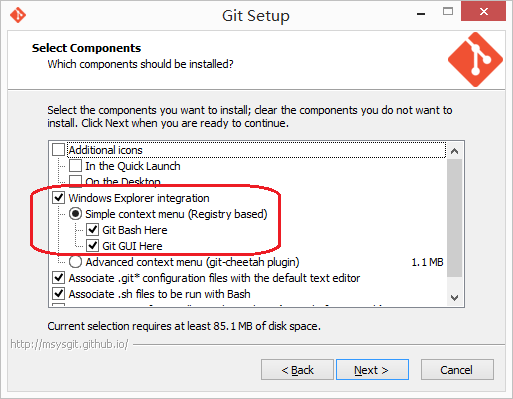
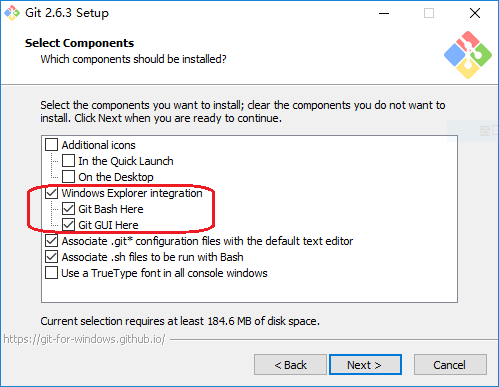
文档更新

Changed region(s): [[0.0, 0.0, 1.0, 1.0], [0.4208, 0.0, 0.5711, 0.062]]

diff --git a/README.md b/README.md
@@ -1,171 +1,256 @@
-# BC系统开发环境配置
+# BC 系统开发环境配置
 
 
-## 一）安装JDK
+## 一）安装 JDK
 
-- 下载绿色版的 JDK７<br>
+- 下载绿色版的 JDK8<br>
 用 ftp 工具连接到 192.168.0.222（账号reader、密码reader），
-文件路径为 /file/tools/java/jdk/jdk1.7.0_21_64.rar<br>
+文件路径为 /file/tools/java/jdk/green/jdk1.8.0_60_x64.rar  
 注：也可以到官网下载安装。
-- 将 jdk1.7.0_21_64.rar 解压到 D:\GreenSoft\java，确认解压后的目录结构如下：
+- 将 jdk1.8.0_60_x64.rar 解压到 /your/path/to/jdk，确认解压后的目录结构如下：
 ```
-D:\GreenSoft\java\jdk1.7.0_21_64\bin
-                                \jre
-                                \lib
-                                \...
+/your/path/to/jdk/jdk1.8.0_60_x64/bin
+                                /jre
+                                /lib
+                                /...
 ```
 - 配置环境变量
 ```
-JAVA_HOME = D:\GreenSoft\java\jdk1.7.0_21_64
-PATH 添加 %JAVA_HOME%\bin
+JAVA_HOME = /your/path/to/jdk/jdk1.8.0_60_x64
+PATH 添加 %JAVA_HOME%/bin (Windows)、$JAVA_HOME/bin (Linux、Mac OS)
 ```
 - 验证安装是否正确
 ```
-> java -version
+$ java -version
 ```
 
 ## 二）安装 Maven
 
-- 到 [Maven 官网](http://maven.apache.org/) 下载最新版的 maven 二进制包，如 [apache-maven-3.2.1-bin.tar.gz](http://mirrors.cnnic.cn/apache/maven/maven-3/3.2.1/binaries/apache-maven-3.2.1-bin.tar.gz)。
+- 到 [Maven 官网](http://maven.apache.org/) 下载最新版的 maven 二进制包，如 [apache-maven-3.3.9-bin.tar.gz](http://apache.fayea.com/maven/maven-3/3.3.9/binaries/apache-maven-3.3.9-bin.tar.gz)。
 
-- 将 apache-maven-3.2.1-bin.tar.gz 解压到 D:\GreenSoft，确认解压后的目录结构为如下：
+- 将 apache-maven-3.3.9-bin.tar.gz 解压到 /your/path/to/maven，确认解压后的目录结构为如下：
 ```
-D:\GreenSoft\apache-maven-3.2.1\bin
-                               \boot
-                               \conf
-                               \lib
-                               \...
+/your/path/to/maven/apache-maven-3.3.9/bin
+                                      /boot
+                                      /conf
+                                      /lib
+                                      /...
 ```
 
 - 配置环境变量
 ```
-M2_HOME = D:\GreenSoft\apache-maven-3.2.1
-PATH 添加 %M2_HOME%\bin
+M2_HOME = /your/path/to/maven/apache-maven-3.3.9
+PATH 添加 %M2_HOME%/bin (Windows)、$M2_HOME/bin (Linux、Mac OS)
 ```
 
-- 增加 Maven 用户配置文件<br>
-在用户目录下创建 .m2 目录：
+- 增加 Maven 用户配置文件  
+在用户目录下创建 .m2 目录：(Windows)
 ```
 > C:
 > cd %USERPROFILE%
 > md .m2
 ```
-拷贝这里的 [settings.xml](https://raw.githubusercontent.com/bcsoft/bc-start/master/settings.xml) 文件到 .m2 目录下。
+拷贝这里的 [settings.xml](https://bitbucket.org/bctaxi/bc-start/src/2b4bd5af9e0b?at=master) 文件到 .m2 目录下。并将文件内的 localRepository 节点的值修改为有效的路径。
 
 - 验证安装是否正确
 ```
 > mvn -v
 ```
 
-- 参考资料<br>
-[Maven开发环境配置](http://rongjih.blog.163.com/blog/static/33574461201041615854740/)<br>
-[官方参考文档](http://maven.apache.org/guides/index.html)<br>
-[Maven权威指南](http://books.sonatype.com/mvnref-book/reference/index.html)<br>
+- 参考资料  
+[Maven开发环境配置](http://rongjih.blog.163.com/blog/static/33574461201041615854740/)  
+[官方参考文档](http://maven.apache.org/guides/index.html)  
+[Maven权威指南](http://books.sonatype.com/mvnref-book/reference/index.html)  
 《Maven权威指南中文版》可到 192.168.0.222 /file/book/Maven权威指南(中文带目录导航).pdf 下载。
 
 ## 三）安装 Git 
-- [官网下载](http://msysgit.github.io/) 或 `192.168.0.222 /file/tools/git/Git-1.9.2-preview20140411.exe` 下载安装。<br>
+- [官网下载](http://git-scm.com/downloads) 或 `192.168.0.222 /file/tools/git/Git-2.6.3-64-bit.exe` 下载安装。  
 注：安装到 "Select Components" 界面时，注意要选择如下安装选项:
-  - [x] Windows Explorerintegration
-    - [x] Simple context menu (Registry based)
-      - [x] Git Bash Here
-      - [x] Git GUI Here<br>
+  - [x] Windows Explorer integration
+    - [x] Git Bash Here
+    - [x] Git GUI Here  
 
 ![Git 安装](/asset/git_install.png)
 
-- 验证安装是否正确<br>
-在资源管理器空白的地方点击鼠标右键，能够看到 Git Bash Here 和 Git GUI Here 两个菜单项就证明安装OK，点击 Git Bash Here 菜单项就可进入 Git 命令行，如下图所示：<br>
-![Git 右键菜单](/asset/git_right_click.png)<br>
+- 验证安装是否正确  
+在资源管理器空白的地方点击鼠标右键，能够看到 Git Bash Here 和 Git GUI Here 两个菜单项就证明安装OK，点击 Git Bash Here 菜单项就可进入 Git 命令行，如下图所示：  
+![Git 右键菜单](/asset/git_right_click.png)  
 ![Git 命令行](/asset/git_command.png)
 
-- 参考资料<br>
-[首先基于互联网的Git开发环境搭建(Windows系统)](http://rongjih.blog.163.com/blog/static/33574461201101504819691/)<br>
+- 参考资料  
+[首先基于互联网的Git开发环境搭建(Windows系统)](http://rongjih.blog.163.com/blog/static/33574461201101504819691/)  
 [Git常用操作命令](http://rongjih.blog.163.com/blog/static/335744612010112562833316/)
 
 ## 四）配置 ssh key
-如果已经有相应的密钥对，可以直接将私钥放到 "%USERPROFILE%/.ssh/" 目录下即可。将公钥发送给管理员，让管理员配置你有权限使用此密钥对检出内网的相关 git 仓库。如果还没有密钥对就按如下步骤创建：
-- 打开Git 的命令行窗口，输入`$ ssh-keygen -C "your@email.com" -t rsa`，按提示输入相关信息生成rsa key（注意email地址按你的实际输入）；默认就会在用户目录下创建名为“.ssh”的目录，并在该目录下生成两个文件，`id_rsa.pub` 和 `id_rsa`，一个是公钥(.pub)另一个是私钥。
+如果已经有相应的密钥对，可以直接将私钥放到 "%USERPROFILE%/.ssh/" 目录下即可。如果还没有密钥对就按如下步骤创建：
+
+- 打开 Git 的命令行窗口，输入`$ ssh-keygen -C "your@email.com" -t rsa`，按提示输入相关信息生成 rsa key（注意email地址按你的实际输入）；默认就会在用户目录下创建名为“.ssh”的目录，并在该目录下生成两个文件：`id_rsa.pub (公钥)` 和 `id_rsa (私钥)`。
+
 - 如果想修改上面创建的密钥的密码，执行命令 `$ ssh-keygen -f '/c/Documents and Settings/yourName/.ssh/id_rsa' -p`，根据提示输入原来的密码和设置新的密码即可。
 
-## 五）[可选] 安装 TortoiseGit 
-[官网下载](http://tortoisegit.org/) 或 `192.168.0.222 /file/tools/git/TortoiseGit-1.8.8.0-64bit.msi` 下载安装。<br>
-汉化：`192.168.0.222 /file/tools/git/TortoiseGit-LanguagePack-1.8.8.0-64bit-zh_CN.msi`<br>
-安装成功后你将会在资源管理器的鼠标右键菜单中看到相应的选项，如下图所示：<br>
+## 五）[可选] 安装 TortoiseGit (Windows)
+[官网下载](https://tortoisegit.org) 或 `192.168.0.222 /file/tools/git/TortoiseGit-1.8.16.0-64bit.msi` 下载安装。  
+汉化：`192.168.0.222 /file/tools/git/TortoiseGit-LanguagePack-1.8.16.0-64bit-zh_CN.msi`  
+安装成功后你将会在资源管理器的鼠标右键菜单中看到相应的选项，如下图所示：  
 ![TortoiseGit 右键菜单](/asset/TortoiseGit.png)
 
 
 ## 六）安装数据库
-系统使用 PostgreSQL 9+ 数据库，下载安装后，创建名为 bcsystem 的开发数据库（拥有者的账号密码也同时设置为 bcsystem），
-创建成功后，向管理员所要开发环境使用的数据库备份文件，将其导入到刚创建的 bcsystem 数据库中即可。
-- 参考资料：<br>
-[官方网站](http://www.postgresql.org)<br>
+系统使用 PostgreSQL 9+ 数据库（推荐安装官方绿色版），下载安装后，创建名为 bcsystem 的开发数据库（拥有者的账号密码也同时设置为 bcsystem），
+创建成功后，向管理员索要开发环境使用的数据库备份文件，将其导入到刚创建的 bcsystem 数据库中即可。  
+以下为 Windows 的安装、初始化范例：  
+1. 下载安装绿色版 PostgreSQL  
+[官网下载](http://www.postgresql.org/download) 或 `192.168.0.222 /file/tools/postgresql/9.4/postgresql-9.4.5-1-windows-x64-binaries.zip` 下载、解压到 /your/path/to/postgresql/，确认解压后的目录结构如下：
+```
+/your/path/to/postgresql/bin
+                        /lib
+                        /share
+                        /...  
+```
+2. 将 /your/path/to/postgresql/bin 添加到环境变量 Path 内
+3. 命令行输入 `psql -dpostgres` 登录数据库管理端，如下图所示：  
+![psql-login](asset/psql-login.png)  
+4. 创建登录密码为 bcsystem 的 bcsystem 账号  
+postgres=# create role bcsystem login password 'bcsystem';  
+5. 创建 owner 为 bcsystem 的 bcsystem 数据库  
+postgres=# create database bcsystem with encoding 'UTF-8' owner bcsystem;  
+6. 退出 postgres 的登录
+postgres=# \q;  
+7. 命令行导入开发环境数据库  
+\> psql -dbcsystem -Ubcsystem < xxx.sql  
+注：xxx.sql 文件需向管理员索取。
+8. 使用 pgAdmin III 客户端连接数据库  
+运行 /your/path/to/postgresql/bin/pgAdmin3.exe，添加数据库连接，如下图所示：  
+![psql-pgadmin-connect](asset/psql-pgadmin-connect.png)  
+![psql-pgadmin-main](asset/psql-pgadmin-main.png)  
+
+- 参考资料：  
+[官方网站](http://www.postgresql.org)  
 [PostgreSQL 脚本收集](http://rongjih.blog.163.com/blog/static/33574461201110300454392/)
 
 ## 七）检出 bc-system 系统
-- 切换到工作目录 E:\Work
-```
-$ cd E:
-$ cd E:\Work
-```
-- 检出 bc-start
-```
-$ git clone git@github.com:bcsoft/bc-start.git
-```
-- 执行初始化脚本
-```
-$ ./bc-start/start.sh [options]
-options 选项说明：
--r  运行系统，即对 bc-system 执行 $ mvn jetty:run -Ppostgresql
--cr 清理后再运行系统，即对 bc-system 执行 $ mvn clean jetty:run -Ppostgresql
--s  检出所有模块的源代码，如 $ ./bc-start/start.sh -s
--i  对检出的模块源代码执行 $ mvn install -Dmaven.test.skip=true
--ci 对检出的模块源代码执行 $ mvn clean install -Dmaven.test.skip=true
--u  更新所有模块的源代码，即对所有模块执行 $ git pull origin master
-```
-如执行 `./bc-start/start.sh -r` 就会自动使用你上面配置好的私钥检出 bc-system 项目并使用 Maven Jetty 插件直接运行起来，通过 http://127.0.0.1:8082 就可访问系统。<br>
-如执行 `./bc-start/start.sh -si` 就会将 bc-system 项目所依赖的全部模块的源代码也同时检出来，并使用 Maven Install 命令自动打包安装好。检出后的源码目录结构参考下图所示：
-![源码](/asset/source.png)
+BC 系统的代码统一放在 https://bitbucket.org/bctaxi 上，请将你的 bitbucket 账号告知管理员，让其分配好项目的相关权限后再执行下面的相关操作。
 
-## 八）安装 Eclipse 开发环境
-- 安装 Eclipse<br>
-到 `192.168.0.222 /file/tools/java/eclipse/eclipse-jee-juno-SR2-win32-x86_64.zip` 下载绿色版 eclipse，将其解压并重命名到 "D:\GreenSoft\eclipse\eclipse-jee-juno-SR2-win32-x86_64"，其目录结构应该如下：
+- 检出 bc-system
 ```
-eclipse-jee-juno-SR2-win32-x86_64\configuration
-                                 \dropins
-                                 \plugins
-                                 \eclipse.exe
-                                 \...
+$ cd /d/Work/
+$ git clone -o bitbucket git@bitbucket.org:bctaxi/bc-system.git
 ```
-- 安装插件<br>
-将 `192.168.0.222 /file/tools/java/eclipse/dropins-juno/*` 下的所有插件下载并解压到上面的 `eclipse-jee-juno-SR2-win32-x86_64\dropins` 目录，解压后的目录结构类似如下：<br>
-![dropins](/asset/dropins-juno.png)
+- 检出 bc-system/src/main/webapp/bc
+```
+$ cd /d/Work/bc-system/src/main/webapp/
+$ git clone -o bitbucket git@bitbucket.org:bctaxi/bc-framework-webapp.git bc
+```
+- 检出 bc-system/src/main/webapp/bc-business
+```
+$ cd /d/Work/bc-system/src/main/webapp/
+$ git clone -o bitbucket git@bitbucket.org:bctaxi/bc-business-webapp.git bc-business
+```
+- 检出 bc-system/src/main/webapp/bc-test
+```
+$ cd /d/Work/bc-system/src/main/webapp/
+$ git clone -o bitbucket git@bitbucket.org:bctaxi/bc-test-webapp.git bc-test
+```
+- 检出 bc-system/src/main/webapp/ui-libs
+```
+$ cd /d/Work/bc-system/src/main/webapp/
+$ git clone -o bitbucket git@bitbucket.org:bctaxi/ui-libs.git
+$ git clone -o bitbucket git@bitbucket.org:bctaxi/ui-libs-demo.git
+```
+- 在命令行下运行 BC 系统
+```
+> D:
+> cd D:/Work/bc-system/
+> mvn jetty:run -Ppostgresql -Dapp.debug=true -Djetty.path=/test -Djetty.port=8081
+```
+系统成功启动后访问地址为：[http://localhost:8081/test](http://localhost:8081/test) 
 
-- 配置工作空间使用UTF-8编码<br>
-如下图所示：<br>
+## 八）安装 IntelliJ Idea 开发环境
+按如下步骤安装配置 IntelliJ Idea：
+
+- 安装 IntelliJ Idea 15+  
+[官网下载](http://www.jetbrains.com/idea/) 或 `192.168.0.222 /file/tools/java/idea/ideaIU-15.0.1.exe` 下载安装。
+
+- 项目编码设置  
+导航至 File/Other Settings/Default Settings...->File encoding，  
+将 IDE Encoding 和 Project Encoding 设置为 UTF-8。
+
+- 属性文件中文转码设置  
+File/Other Settings/Default Settings...->File encoding，  
+选中 Transparent native-to-ascii conversion，参考下图：  
+![idea-properties](asset/idea-properties.png)  
+设置后，默认情况下 IDEA 将属性文件中的 Unicode 编码保存为大写，我们项目要求保存为小写，故需修改 `bin/idea.properties` 文件，增加 `idea.native2ascii.lowercase=true` 属性配置
+
+- 文件缩进设置  
+导航至 File/Other Settings/Default Settings...->Editor/Code Style/Java，  
+选中 Use tab character 和 Smart tabs。  
+注：项目中的其它文件类型，我们统一使用 tab 键缩进而不是空格，故其它类型的文件也要作相应的设置。
+
+- 显示文件的空格和换行符设置  
+导航至 File/Settings...->Editor/General/Appearance，  
+选中 Show whitespaces 和 Show line numbers，参考下图：  
+![idea-line](asset/idea-line.png)
+
+- 导入上面第七步检出的 bc-system 项目  
+1. 导航至 File/New/Project from Existing Sources...，  
+2. 在弹出的对话框中选中项目 D:/Work/bc-system，然后点击 OK 按钮继续  
+3. 选中 Import project from external model 和 Maven，点击 Next 继续，如下图所示：  
+![idea-import-project](asset/idea-import-project.png)  
+4. 接下来就一路 Next 即可。  
+
+- 在 idea 内运行 bc-system 系统  
+按下图所示进行配置：
+![idea-config-bcsystem](asset/idea-config-bcsystem.png) 
+命令行参数为 jetty:run -Dapp.debug=true -Djetty.path=/test -Djetty.port=8081  
+配置完成后点击下图中的 Run 或 Debug 按钮即可启动系统：  
+![idea-run-bcsystem](asset/idea-run-bcsystem.png) 
+系统成功启动后访问地址为：[http://localhost:8081/test](http://localhost:8081/test)
+
+- 参考资料  
+[IDEA 快捷键收集](http://rongjih.blog.163.com/blog/static/3357446120134793148413/)  
+[让 JAVA 编辑器显示空格(Space)和制表符(Tab)](http://rongjih.blog.163.com/blog/static/33574461201462394750228/)
+
+## 九）[可选] 安装 Eclipse 开发环境
+按如下步骤安装配置 Eclipse：
+
+- 安装 Eclipse  
+[官网下载](https://eclipse.org/downloads/) 或到 `192.168.0.222 /file/tools/java/eclipse/eclipse-jee-mars-1-win32-x86_64.zip` 下载绿色版 eclipse，将其解压后即可直接使用（运行 eclipse.exe 文件），其目录结构如下：
+```
+/path/to/eclipse/configuration
+                /dropins
+                /plugins
+                /eclipse.exe
+                /...
+```
+
+- 安装插件  
+将 `192.168.0.222 /file/tools/java/eclipse/dropins-mars/` 目录下的如下插件下载并解压到上面的 `eclipse/dropins` 目录，解压后的目录结构如下： 
+```
+/path/to/eclipse/dropins/jd-eclipse-1.0.0         - 反编译插件
+                        /properties-editor-6.0.4  - 属性文件编辑插件
+                        /startexplorer-1.7.0      - 在浏览器中查看插件
+                        /ermaster-1.0.0.v20150619 - 数据库设计插件
+                        /wireframesketcher-4.4.9  - 界面原型设计插件
+                        /activiti-designer-5.9.3  - Activiti 流程设计器插件
+```
+
+- 配置工作空间使用UTF-8编码  
+如下图所示：  
 ![workspace](/asset/eclipse-workspace.png)
 
-- 导入模块<br>
-请务必以 Maven 模块的方式导入上面用 Git 检出的相关模块。由于项目模块太多，为了保证 Eclipse 运行快速，请按需只导入需要的模块进行开发。
 
-- 参考资料<br>
-[Eclipse 中好用的项目原型设计插件 WireframeSketcher](http://rongjih.blog.163.com/blog/static/33574461201171023649680/)<br>
-[Eclipse 中好用的Properties Editor插件(属性文件编辑器)](http://rongjih.blog.163.com/blog/static/335744612011211113352570/)<br>
-[Eclipse 编辑技巧收集](http://rongjih.blog.163.com/blog/static/33574461201321815634218/)<br>
+- 导入上面第七步检出的 bc-system 项目  
+1. 导航至 File/Import...，  
+2. 在弹出的对话框中选中项目 Maven/Existing Maven Projects，然后点击 Next 按钮继续  
+![eclipse-import1](asset/eclipse-import1.png)  
+3. 点击 Browse 按钮，选择项目 D:/Work/bc-system，然后点击 Finish 按钮完成导入  
+![eclipse-import2](asset/eclipse-import2.png) 
+
+- 在 Eclipse 内运行 bc-system 系统   
+
+- 参考资料  
+[Eclipse 中好用的项目原型设计插件 WireframeSketcher](http://rongjih.blog.163.com/blog/static/33574461201171023649680/)  
+[Eclipse 中好用的Properties Editor插件(属性文件编辑器)](http://rongjih.blog.163.com/blog/static/335744612011211113352570/)  
+[Eclipse 编辑技巧收集](http://rongjih.blog.163.com/blog/static/33574461201321815634218/)  
 [Eclipse 的 Tab 宽度设置](http://rongjih.blog.163.com/blog/static/33574461201362595229871/)
-
-## 九）[可选] 安装 IntelliJ Idea 开发环境<br>
-如果你习惯使用 IntelliJ Idea 而不是 Eclipse，按如下步骤安装配置 IntelliJ Idea：
-- 安装 IntelliJ Idea 13+<br>
-[官网下载](http://www.jetbrains.com/idea/) 或 `192.168.0.222 /file/tools/java/idea/ideaIU-13.1.1.exe` 下载安装。
-
-- 属性文件中文转码设置<br>
-Settings->File encoding，选中Transparent native-to-ascii conversion，参考下图：<br>
-![idea-properties](asset/idea-properties.png)
-
-设置后，默认情况下 IDEA 将属性文件中的 Unicode 编码保存为大写，我们项目要求保存为小写，故需修改 `bin/idea.properties` 文件，增加如下的属性配置：
-```
-idea.native2ascii.lowercase=true
-```
-
-- 参考资料<br>
-[IDEA 快捷键收集](http://rongjih.blog.163.com/blog/static/3357446120134793148413/)
+[让 JAVA 编辑器显示空格(Space)和制表符(Tab)](http://rongjih.blog.163.com/blog/static/33574461201462394750228/)
